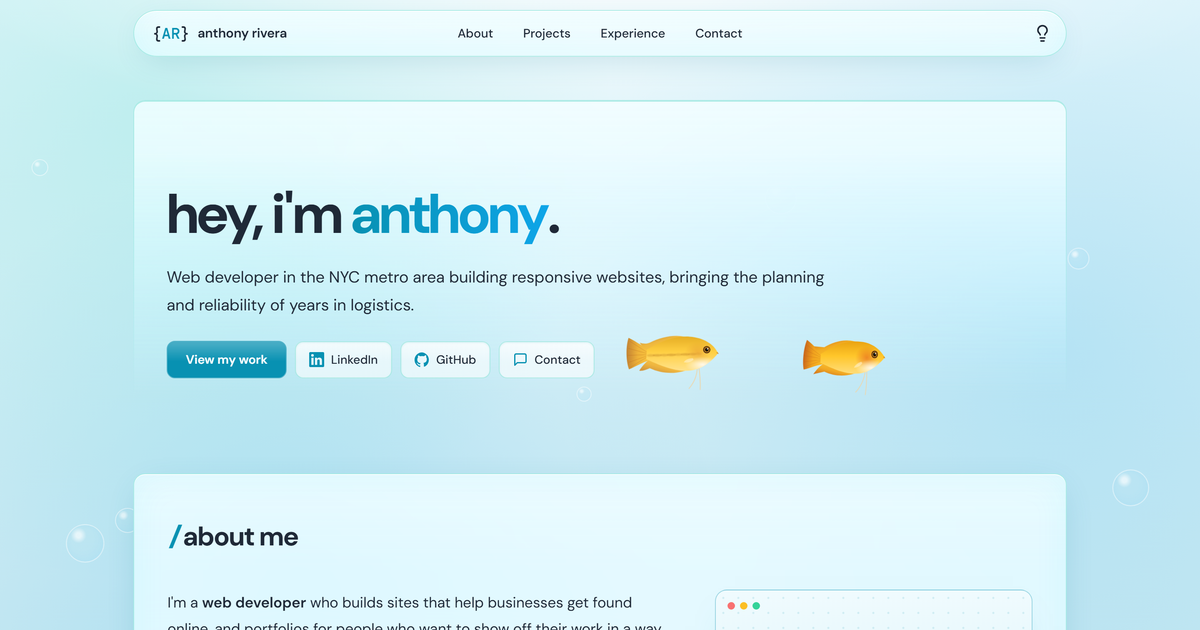
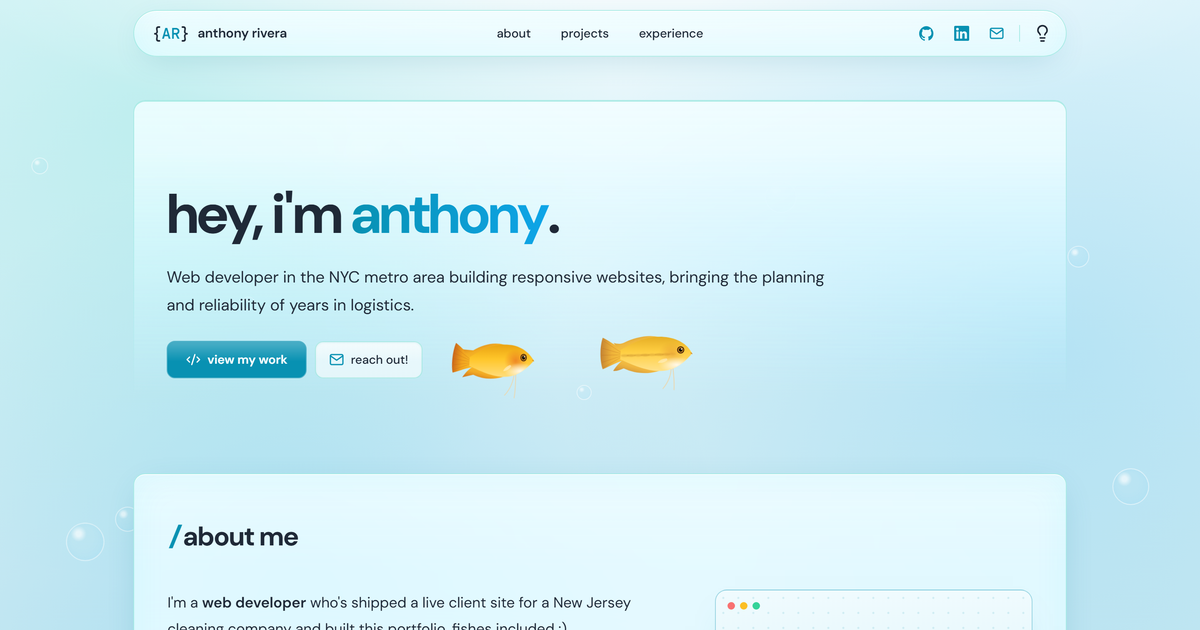
Retarget the site toward developer roles and simplify contact
- Hero and About speak as a web developer: new About intro, the Academy
  Bus paragraph reframed around planning logistics, Claude Code added to
  the tools list, and a code icon on View my work.
- Projects show a "Built with" line; the freelance Experience entry is
  rewritten around the Eros Pro Cleaning build, AI-assisted development
  and Google Analytics, and Assistant Operations Planner gains the
  contracts and scheduling bullet.
- The Contact section is stored in a <template> (kept, not shown). The
  nav gains GitHub, LinkedIn and Email icons, the phone menu lists them
  too, the footer shows the email address, and Resume is a button at
  the end of the Experience timeline.
- Nav links and buttons are lowercase, and the hero buttons form a
  2x2 grid on phones.
- Update the meta description, resume, share image and project
  thumbnail to match.

diff --git a/index.html b/index.html
@@ -4,7 +4,7 @@
   <meta charset="UTF-8" />
   <meta name="viewport" content="width=device-width, initial-scale=1.0" />
   <title>Anthony Daniel Rivera | Web Developer</title>
-  <meta name="description" content="Anthony Daniel Rivera is a web developer in the NYC metro area who builds fast, mobile-friendly websites for businesses and personal portfolios." />
+  <meta name="description" content="Anthony Daniel Rivera is a CS grad and web developer in the NYC metro area, with 3+ years running large-scale transportation operations." />
   <link rel="canonical" href="https://anthonydanrivera.com/" />
 
   <link rel="icon" href="assets/favicon-32.png" sizes="32x32" type="image/png" />
@@ -16,7 +16,7 @@
   <meta property="og:type" content="website" />
   <meta property="og:url" content="https://anthonydanrivera.com/" />
   <meta property="og:title" content="Anthony Daniel Rivera | Web Developer" />
-  <meta property="og:description" content="Anthony Daniel Rivera is a web developer in the NYC metro area who builds fast, mobile-friendly websites for businesses and personal portfolios." />
+  <meta property="og:description" content="Anthony Daniel Rivera is a CS grad and web developer in the NYC metro area, with 3+ years running large-scale transportation operations." />
   <meta property="og:image" content="https://anthonydanrivera.com/assets/og-image.png" />
   <meta property="og:image:width" content="1200" />
   <meta property="og:image:height" content="630" />
@@ -70,13 +70,21 @@
       <a href="#top" class="nav__logo"><span class="nav__mark">{<span>AR</span>}</span><span class="nav__name">anthony rivera</span></a>
 
       <nav class="nav__links" id="navLinks">
-        <a href="#about">About</a>
-        <a href="#projects">Projects</a>
-        <a href="#experience">Experience</a>
-        <a href="#contact">Contact</a>
+        <a href="#about">about</a>
+        <a href="#projects">projects</a>
+        <a href="#experience">experience</a>
+        <!-- Shown only in the phone menu; on wider screens the nav has these as icons instead -->
+        <a class="nav__menu-link" href="https://github.com/anthonydanrivera" target="_blank" rel="noopener"><svg viewBox="0 0 24 24" width="18" height="18" fill="currentColor" aria-hidden="true"><path d="M12 .5a12 12 0 0 0-3.8 23.4c.6.1.8-.3.8-.6v-2c-3.3.7-4-1.6-4-1.6-.6-1.4-1.4-1.8-1.4-1.8-1.1-.7.1-.7.1-.7 1.2.1 1.8 1.2 1.8 1.2 1.1 1.8 2.8 1.3 3.5 1 .1-.8.4-1.3.8-1.6-2.7-.3-5.5-1.3-5.5-5.9 0-1.3.5-2.4 1.2-3.2-.1-.3-.5-1.5.1-3.2 0 0 1-.3 3.3 1.2a11.5 11.5 0 0 1 6 0C17.3 4.6 18.3 5 18.3 5c.7 1.7.2 2.9.1 3.2.8.8 1.2 1.9 1.2 3.2 0 4.6-2.8 5.6-5.5 5.9.4.4.8 1.1.8 2.2v3.3c0 .3.2.7.8.6A12 12 0 0 0 12 .5z"/></svg><span class="nav__menu-label">github</span></a>
+        <a class="nav__menu-link" href="https://www.linkedin.com/in/anthonydanrivera" target="_blank" rel="noopener"><svg viewBox="0 0 24 24" width="18" height="18" fill="currentColor" aria-hidden="true"><path d="M20.4 20.5h-3.6v-5.6c0-1.3 0-3-1.8-3s-2.1 1.4-2.1 2.9v5.7H9.3V9h3.4v1.6h.1c.5-.9 1.6-1.8 3.4-1.8 3.6 0 4.3 2.4 4.3 5.5v6.2zM5.3 7.4a2.1 2.1 0 1 1 0-4.2 2.1 2.1 0 0 1 0 4.2zM7.1 20.5H3.5V9h3.6v11.5zM22.2 0H1.8C.8 0 0 .8 0 1.7v20.6c0 .9.8 1.7 1.8 1.7h20.4c1 0 1.8-.8 1.8-1.7V1.7C24 .8 23.2 0 22.2 0z"/></svg><span class="nav__menu-label">linkedin</span></a>
+        <a class="nav__menu-link" href="mailto:anthonydanrivera@gmail.com"><svg viewBox="0 0 24 24" width="18" height="18" fill="none" stroke="currentColor" stroke-width="2" stroke-linecap="round" stroke-linejoin="round" aria-hidden="true"><rect x="2" y="4" width="20" height="16" rx="2"/><path d="m22 6-10 7L2 6"/></svg><span class="nav__menu-label">email</span></a>
       </nav>
 
       <div class="nav__actions">
+        <!-- Quick links, as icons: GitHub, LinkedIn, Email -->
+        <a class="icon-btn nav__quick" href="https://github.com/anthonydanrivera" target="_blank" rel="noopener" aria-label="GitHub"><svg viewBox="0 0 24 24" width="18" height="18" fill="currentColor" aria-hidden="true"><path d="M12 .5a12 12 0 0 0-3.8 23.4c.6.1.8-.3.8-.6v-2c-3.3.7-4-1.6-4-1.6-.6-1.4-1.4-1.8-1.4-1.8-1.1-.7.1-.7.1-.7 1.2.1 1.8 1.2 1.8 1.2 1.1 1.8 2.8 1.3 3.5 1 .1-.8.4-1.3.8-1.6-2.7-.3-5.5-1.3-5.5-5.9 0-1.3.5-2.4 1.2-3.2-.1-.3-.5-1.5.1-3.2 0 0 1-.3 3.3 1.2a11.5 11.5 0 0 1 6 0C17.3 4.6 18.3 5 18.3 5c.7 1.7.2 2.9.1 3.2.8.8 1.2 1.9 1.2 3.2 0 4.6-2.8 5.6-5.5 5.9.4.4.8 1.1.8 2.2v3.3c0 .3.2.7.8.6A12 12 0 0 0 12 .5z"/></svg></a>
+        <a class="icon-btn nav__quick" href="https://www.linkedin.com/in/anthonydanrivera" target="_blank" rel="noopener" aria-label="LinkedIn"><svg viewBox="0 0 24 24" width="18" height="18" fill="currentColor" aria-hidden="true"><path d="M20.4 20.5h-3.6v-5.6c0-1.3 0-3-1.8-3s-2.1 1.4-2.1 2.9v5.7H9.3V9h3.4v1.6h.1c.5-.9 1.6-1.8 3.4-1.8 3.6 0 4.3 2.4 4.3 5.5v6.2zM5.3 7.4a2.1 2.1 0 1 1 0-4.2 2.1 2.1 0 0 1 0 4.2zM7.1 20.5H3.5V9h3.6v11.5zM22.2 0H1.8C.8 0 0 .8 0 1.7v20.6c0 .9.8 1.7 1.8 1.7h20.4c1 0 1.8-.8 1.8-1.7V1.7C24 .8 23.2 0 22.2 0z"/></svg></a>
+        <a class="icon-btn nav__quick" href="mailto:anthonydanrivera@gmail.com" aria-label="Email"><svg viewBox="0 0 24 24" width="18" height="18" fill="none" stroke="currentColor" stroke-width="2" stroke-linecap="round" stroke-linejoin="round" aria-hidden="true"><rect x="2" y="4" width="20" height="16" rx="2"/><path d="m22 6-10 7L2 6"/></svg></a>
+        <span class="nav__divider" aria-hidden="true"></span>
         <!-- A lightbulb -->
         <button class="icon-btn" id="themeToggle" aria-label="Toggle light and dark mode">
           <svg viewBox="0 0 24 24" width="22" height="22" fill="none" stroke="currentColor" stroke-width="2" stroke-linecap="round" stroke-linejoin="round" aria-hidden="true"><path d="M15 14c.2-1 .7-1.7 1.5-2.5 1-.9 1.5-2.2 1.5-3.5A6 6 0 0 0 6 8c0 1 .2 2.2 1.5 3.5.7.7 1.3 1.5 1.5 2.5"/><path d="M9 18h6"/><path d="M10 22h4"/></svg>
@@ -98,21 +106,12 @@
         Web developer in the NYC metro area building responsive websites,
         bringing the planning and reliability of years in logistics.
       </p>
-      <!-- One row of actions: the main button first, then the links -->
+      <!-- The main button, then a quick way to get in touch -->
       <div class="hero__cta socials reveal">
-        <a href="#projects" class="btn btn--ghost btn--primary">View my work</a>
-        <span class="hero__break" aria-hidden="true"></span>
-        <a class="social-btn" href="https://www.linkedin.com/in/anthonydanrivera" target="_blank" rel="noopener">
-          <svg viewBox="0 0 24 24" width="18" height="18" fill="currentColor" aria-hidden="true"><path d="M20.4 20.5h-3.6v-5.6c0-1.3 0-3-1.8-3s-2.1 1.4-2.1 2.9v5.7H9.3V9h3.4v1.6h.1c.5-.9 1.6-1.8 3.4-1.8 3.6 0 4.3 2.4 4.3 5.5v6.2zM5.3 7.4a2.1 2.1 0 1 1 0-4.2 2.1 2.1 0 0 1 0 4.2zM7.1 20.5H3.5V9h3.6v11.5zM22.2 0H1.8C.8 0 0 .8 0 1.7v20.6c0 .9.8 1.7 1.8 1.7h20.4c1 0 1.8-.8 1.8-1.7V1.7C24 .8 23.2 0 22.2 0z"/></svg>
-          LinkedIn
-        </a>
-        <a class="social-btn" href="https://github.com/anthonydanrivera" target="_blank" rel="noopener">
-          <svg viewBox="0 0 24 24" width="18" height="18" fill="currentColor" aria-hidden="true"><path d="M12 .5a12 12 0 0 0-3.8 23.4c.6.1.8-.3.8-.6v-2c-3.3.7-4-1.6-4-1.6-.6-1.4-1.4-1.8-1.4-1.8-1.1-.7.1-.7.1-.7 1.2.1 1.8 1.2 1.8 1.2 1.1 1.8 2.8 1.3 3.5 1 .1-.8.4-1.3.8-1.6-2.7-.3-5.5-1.3-5.5-5.9 0-1.3.5-2.4 1.2-3.2-.1-.3-.5-1.5.1-3.2 0 0 1-.3 3.3 1.2a11.5 11.5 0 0 1 6 0C17.3 4.6 18.3 5 18.3 5c.7 1.7.2 2.9.1 3.2.8.8 1.2 1.9 1.2 3.2 0 4.6-2.8 5.6-5.5 5.9.4.4.8 1.1.8 2.2v3.3c0 .3.2.7.8.6A12 12 0 0 0 12 .5z"/></svg>
-          GitHub
-        </a>
-        <a class="social-btn" href="#contact">
-          <svg viewBox="0 0 24 24" width="18" height="18" fill="none" stroke="currentColor" stroke-width="2" stroke-linecap="round" stroke-linejoin="round" aria-hidden="true"><path d="M21 15a2 2 0 0 1-2 2H7l-4 4V5a2 2 0 0 1 2-2h14a2 2 0 0 1 2 2z"/></svg>
-          Contact
+        <a href="#projects" class="btn btn--ghost btn--primary"><svg viewBox="0 0 24 24" width="18" height="18" fill="none" stroke="currentColor" stroke-width="2" stroke-linecap="round" stroke-linejoin="round" aria-hidden="true"><path d="m18 16 4-4-4-4"/><path d="m6 8-4 4 4 4"/><path d="m14.5 4-5 16"/></svg><span class="btn__label">view my work</span></a>
+        <a class="social-btn" href="mailto:anthonydanrivera@gmail.com">
+          <svg viewBox="0 0 24 24" width="18" height="18" fill="none" stroke="currentColor" stroke-width="2" stroke-linecap="round" stroke-linejoin="round" aria-hidden="true"><rect x="2" y="4" width="20" height="16" rx="2"/><path d="m22 6-10 7L2 6"/></svg>
+          <span class="btn__label">reach out!</span>
         </a>
       </div>
       <!-- Shown on desktop once the fish is in the margins; fades away after the first feeding -->
@@ -125,31 +124,28 @@
       <div class="about">
         <div class="about__text reveal">
           <p>
-            I'm a <strong>web developer</strong> who builds sites that help businesses get found online, and portfolios
-            for people who want to show off their work in a way that feels like them.
+            I'm a <strong>web developer</strong> who's shipped a live client site for a New Jersey
+            cleaning company and built this portfolio, fishes included :)
           </p>
           <p>What I work with:</p>
           <ul class="tech-list">
             <li>HTML &amp; CSS</li><li>JavaScript</li>
             <li>Web design</li><li>Git &amp; GitHub</li>
-            <li>AI-assisted development</li><li>Python</li>
+            <li>Python</li><li>Claude Code</li>
           </ul>
           <p>
-            Alongside web development I'm an <strong>Assistant Operations Planner</strong> at Academy Bus, coordinating charter
-            work across 10 Northeast terminals for events such as the FIFA World Cup, the US Open and the NYC
-            Marathon.
+            Alongside development I'm an <strong>Assistant Operations Planner</strong> at Academy Bus. I plan logistics and
+            transportation needs across 10 Northeast terminals and for events like the FIFA World Cup, the US Open and the
+            NYC Marathon.
           </p>
           <p>
             Outside of work I love lifting heavy at the gym and getting humbled by Slay the Spire 2.
             I used to keep honey gouramis, which is why you see two swimming here!
           </p>
-          <p>
-            Have a website or a role in mind? <a class="accent" href="#contact">Send me a message</a>.
-          </p>
         </div>
         <div class="about__photo reveal">
           <!-- Replace with: <img src="assets/profile.jpg" alt="Anthony Rivera" /> -->
-          <div class="photo-placeholder">
+          <div class="photo-placeholder" aria-hidden="true">
             {<span>AR</span>}
             <!-- A tiny ASCII aquarium -->
             <div class="tank" aria-hidden="true">
@@ -158,8 +154,8 @@
               <span class="tank__fish tank__fish--tetra">&lt;&gt;&lt;</span>
               <span class="tank__bubble tank__bubble--a">o</span>
               <span class="tank__bubble tank__bubble--b">&deg;</span>
-              <pre class="tank__plants">               (   (         (        )
-(              )   )         )        (    )
+              <pre class="tank__plants">               (   (         (        )                         
+(              )   )         )        (    )                    
 )       )      ( ( (         ( (    ) )    (   ( (             (
 (    )  ( (    ) ) ) )    (  ) )    ( ( (  )   ) ) )     )  (  )
 )    (  ) )    ( ( ( (    )  ( (    ) ) )  (   ( ( (     (  )  (</pre>
@@ -184,6 +180,7 @@
             <h3>Eros Pro Cleaning</h3>
             <p>A site for a New Jersey company that cleans homes and offices. Customers can see what they clean
               and where, then call or ask for a quote with one tap.</p>
+            <p class="card__stack"><span>Built with</span> HTML · CSS · JavaScript</p>
             <ul class="tags"><li>Client Work</li><li>Web Design</li><li>Responsive</li><li>Dark Mode</li></ul>
             <div class="card__links">
               <a href="https://erosprocleaning.com/" target="_blank" rel="noopener">Visit site <svg viewBox="0 0 24 24" fill="none" stroke="currentColor" stroke-width="2.2" stroke-linecap="round" stroke-linejoin="round" aria-hidden="true"><path d="M7 17 17 7M8 7h9v9"/></svg></a>
@@ -200,12 +197,14 @@
             <h3>This Portfolio</h3>
             <p>The site you're on right now. It has light and dark modes, an ASCII fish tank and two honey
               gouramis you can feed by clicking the margins.</p>
+            <p class="card__stack"><span>Built with</span> HTML · CSS · JavaScript</p>
             <ul class="tags"><li>Personal Site</li><li>Interactive</li><li>Dark Mode</li></ul>
             <div class="card__links">
               <a href="#top">You're already here! <svg viewBox="0 0 24 24" fill="none" stroke="currentColor" stroke-width="2.2" stroke-linecap="round" stroke-linejoin="round" aria-hidden="true"><path d="M12 19V5M5 12l7-7 7 7"/></svg></a>
             </div>
           </div>
         </article>
+
       </div>
     </section>
 
@@ -217,9 +216,9 @@
           <span class="timeline__date">Oct 2026 — Present · Remote</span>
           <h3>Freelance Web Developer · <span class="accent">Self-employed</span></h3>
           <ul class="timeline__points">
-            <li>Build and launch responsive websites for clients, handling the design, the build and getting each site live.</li>
-            <li>Work one-on-one from first draft to launch, revising each site around feedback.</li>
-            <li>Use Claude Code to build and debug sites faster.</li>
+            <li>Designed, built and deployed <a class="accent" href="https://erosprocleaning.com/" target="_blank" rel="noopener">erosprocleaning.com</a> for a NJ cleaning company using HTML, CSS and JavaScript, hosted on Netlify.</li>
+            <li>Use AI-assisted development (Claude Code) to build and debug faster, reviewing and testing every change.</li>
+            <li>Set up Google Analytics to track traffic and quote/call conversions, giving the client visibility into how customers find and use the site.</li>
           </ul>
         </li>
         <li class="timeline__item reveal">
@@ -227,6 +226,7 @@
           <h3>Assistant Operations Planner · <span class="accent">Academy Bus</span></h3>
           <ul class="timeline__points">
             <li>Forecast charter demand across a peak-season board of 3,000+ trips a month and distribute work across 10 Northeast terminals including MA, NY, NJ and CT.</li>
+            <li>Analyze contracts and schedules to resource daily service for 100+ buses and drivers within DOT hours-of-service limits.</li>
             <li>Coordinate terminal distribution and subcontracting for the FIFA World Cup, US Open and TCS NYC Marathon.</li>
           </ul>
         </li>
@@ -237,6 +237,10 @@
             <li>Led the 24/7 dispatch desk, directed a team of 3 and trained new hires.</li>
             <li>Resolved 15+ service disruptions a week, coordinating crews and equipment by radio.</li>
           </ul>
+        </li>
+        <!-- The last stop on the timeline: the full resume -->
+        <li class="timeline__item timeline__item--resume reveal">
+          <a class="btn btn--ghost" href="assets/resume.pdf" target="_blank" rel="noopener"><svg viewBox="0 0 24 24" width="18" height="18" fill="none" stroke="currentColor" stroke-width="2" stroke-linecap="round" stroke-linejoin="round" aria-hidden="true"><path d="M14 2H6a2 2 0 0 0-2 2v16a2 2 0 0 0 2 2h12a2 2 0 0 0 2-2V8z"/><path d="M14 2v6h6"/><path d="M16 13H8M16 17H8M10 9H8"/></svg><span class="btn__label">resume</span></a>
         </li>
       </ol>
 
@@ -253,14 +257,18 @@
       </ol>
     </section>
 
-    <!-- ============ CONTACT ============ -->
+    <!-- ============ CONTACT (stored, not shown) ============ -->
+    <!-- The Contact section is kept here inside a <template>, which browsers never display. To bring it back:
+         move the <section> out of the <template>, re-add <a href="#contact">Contact</a> to the nav, and point the
+         hero Email button and the About "Send me an email" link back at #contact if you like. -->
+    <template id="contact-section">
     <section class="section container contact" id="contact">
       <h2 class="section__title reveal">Contact</h2>
       <p class="contact__lead reveal">
-        Need a new website or a refresh of the one you have? Hiring for a role I'd be a good fit for?
-        Email me at <a class="accent" href="mailto:anthonydanrivera@gmail.com">anthonydanrivera@gmail.com</a>
+        Hiring, or want to connect? Email me at <a class="accent" href="mailto:anthonydanrivera@gmail.com">anthonydanrivera@gmail.com</a>
         or use the form below.
       </p>
+      <p class="contact__aside reveal">Need a website built? I take on freelance projects too.</p>
       <div class="socials contact__socials reveal">
         <a class="social-btn" href="https://www.linkedin.com/in/anthonydanrivera" target="_blank" rel="noopener">
           <svg viewBox="0 0 24 24" width="18" height="18" fill="currentColor" aria-hidden="true"><path d="M20.4 20.5h-3.6v-5.6c0-1.3 0-3-1.8-3s-2.1 1.4-2.1 2.9v5.7H9.3V9h3.4v1.6h.1c.5-.9 1.6-1.8 3.4-1.8 3.6 0 4.3 2.4 4.3 5.5v6.2zM5.3 7.4a2.1 2.1 0 1 1 0-4.2 2.1 2.1 0 0 1 0 4.2zM7.1 20.5H3.5V9h3.6v11.5zM22.2 0H1.8C.8 0 0 .8 0 1.7v20.6c0 .9.8 1.7 1.8 1.7h20.4c1 0 1.8-.8 1.8-1.7V1.7C24 .8 23.2 0 22.2 0z"/></svg>
@@ -294,9 +302,9 @@
           <label for="topic">What can I help with? <span class="field__optional">(optional)</span></label>
           <select id="topic" name="topic">
             <option value="">Choose one</option>
+            <option>Job opportunity</option>
             <option>New website or redesign</option>
             <option>Portfolio website</option>
-            <option>Job opportunity</option>
             <option>Just want to connect</option>
             <option>Something else</option>
           </select>
@@ -313,11 +321,12 @@
         <p class="form-note" id="formNote" role="status"></p>
       </form>
     </section>
+    </template>
   </main>
 
   <footer class="footer">
     <div class="container footer__inner">
-      <p>© <span id="year"></span> Anthony Daniel Rivera</p>
+      <p>© <span id="year"></span> Anthony Daniel Rivera · <a class="accent" href="mailto:anthonydanrivera@gmail.com">anthonydanrivera@gmail.com</a></p>
       <a href="#top" class="mono">Back to top ↑</a>
     </div>
   </footer>

diff --git a/css/style.css b/css/style.css
@@ -187,7 +187,13 @@ img { max-width: 100%; display: block; }
   color: var(--text);
 }
 .nav__links a.is-active { color: var(--accent); }
-.nav__actions { grid-column: 3; justify-self: end; display: flex; gap: 8px; }
+/* GitHub, LinkedIn and Email rows only appear in the phone menu */
+.nav__menu-link { display: none; }
+.nav__actions { grid-column: 3; justify-self: end; display: flex; align-items: center; gap: 4px; }
+/* The quick-link icons are aqua, matching the icons in the phone menu */
+.icon-btn.nav__quick { color: var(--accent); }
+/* A thin line between the quick links and the theme toggle */
+.nav__divider { width: 1px; height: 20px; margin: 0 4px; background: var(--glass-border); }
 
 .icon-btn {
   width: 38px; height: 38px;
@@ -254,16 +260,16 @@ img { max-width: 100%; display: block; }
 @keyframes blink { 50% { opacity: 0; } }
 .hero__lead { max-width: 820px; text-wrap: pretty; margin-top: 22px; color: var(--text); font-size: 1.2rem; line-height: 1.75; }
 .hero__cta { display: flex; flex-wrap: wrap; align-items: center; gap: 12px; margin: 34px 0 30px; }
-/* On phones the row is too narrow for everything, so View my work gets its own line and the links stay together */
-.hero__break { display: none; }
-@media (max-width: 560px) {
-  .hero__break { display: block; flex-basis: 100%; height: 0; }
+/* On phones and small windows the two actions split the row evenly */
+@media (max-width: 640px) {
+  .hero .hero__cta { display: grid; grid-template-columns: 1fr 1fr; }
+  .hero .hero__cta > a { justify-content: center; }
 }
 /* The fish swim in front of the hero's glass but behind its buttons, so they never cover one */
 .hero__cta, .hero .socials { position: relative; z-index: 2; }
 
 .btn {
-  display: inline-flex; align-items: center; justify-content: center;
+  display: inline-flex; align-items: center; justify-content: center; gap: 8px;
   padding: 12px 22px;
   border-radius: 10px;
   font: 600 0.92rem var(--font);
@@ -430,6 +436,13 @@ img { max-width: 100%; display: block; }
 
 
 /* ============ TIMELINE ============ */
+/* The resume button is the last stop on the Experience timeline: its fish sits level with the button,
+   and no bubble line trails after it */
+.timeline__item.timeline__item--resume::before { top: 9px; }
+.timeline__item.timeline__item--resume::after { display: none; }
+.timeline__item--resume .btn { gap: 8px; }
+.timeline__item--resume .btn svg { color: var(--accent); transition: color 0.2s; }
+.timeline__item--resume .btn:hover svg { color: currentColor; }
 /* A column of tiny bubbles down the left side, with a little ASCII fish marking each entry.
    Each entry draws its own stretch of bubbles starting just below its fish, so the line never runs through one */
 .timeline { padding-left: 30px; }
@@ -513,7 +526,11 @@ img { max-width: 100%; display: block; }
   background: color-mix(in srgb, var(--accent) 12%, transparent);
   color: var(--accent);
 }
-.card__links { display: flex; gap: 18px; font-size: 0.9rem; font-weight: 500; }
+/* The tech a project is built with, in the same mono type as the labels */
+.card__stack { margin-top: 12px; font: 0.8rem/1.6 var(--mono); color: var(--text); }
+.card__stack span { color: var(--accent); margin-right: 4px; }
+.card__stack + .card__links { margin-top: 16px; }
+.card__links { display: flex; flex-wrap: wrap; align-items: center; gap: 8px 18px; font-size: 0.9rem; font-weight: 500; }
 .card__links a { color: var(--text); transition: color 0.2s; }
 /* Arrows are drawn as icons rather than text characters, which come from different fallback fonts and don't match */
 .card__links svg { width: 0.9em; height: 0.9em; margin-left: 2px; vertical-align: -0.08em; }
@@ -522,6 +539,9 @@ img { max-width: 100%; display: block; }
 /* ============ CONTACT ============ */
 .contact { margin-bottom: 80px; }
 .contact__lead { color: var(--text); max-width: 580px; margin-bottom: 28px; font-size: 1.1rem; line-height: 1.8; }
+/* A quieter second line for freelance inquiries, tucked under the main prompt */
+.contact__lead:has(+ .contact__aside) { margin-bottom: 6px; }
+.contact__aside { color: var(--muted); max-width: 580px; margin-bottom: 28px; font-size: 0.98rem; }
 .contact__form { display: grid; grid-template-columns: 1fr 1fr; gap: 16px; max-width: 640px; }
 .field { display: flex; flex-direction: column; gap: 6px; }
 .field--full { grid-column: 1 / -1; }
@@ -605,6 +625,8 @@ img { max-width: 100%; display: block; }
   /* The links move into the drop-down menu, so the bar goes back to just logo on the left, buttons on the right */
   .nav__inner { display: flex; justify-content: space-between; }
   .nav__burger { display: flex; }
+  /* No room for the quick-link icons here; GitHub, LinkedIn and Email move into the menu instead */
+  .nav__quick, .nav__divider { display: none; }
   .nav__links {
     position: fixed; top: 76px; left: 16px; right: 16px;
     flex-direction: column; gap: 0;
@@ -619,10 +641,12 @@ img { max-width: 100%; display: block; }
     visibility: hidden;
     transition: max-height 0.3s ease, visibility 0s 0.3s;
   }
-  .nav__links.is-open { max-height: 320px; border-color: var(--border); visibility: visible; transition: max-height 0.3s ease; }
+  .nav__links.is-open { max-height: 420px; border-color: var(--border); visibility: visible; transition: max-height 0.3s ease; }
   /* In the drop-down menu the links are plain rows rather than glass pills */
   .nav__links a { padding: 16px 20px; border-radius: 0; border-top: 1px solid var(--border); }
   .nav__links a:first-child { border-top: none; }
+  .nav__links .nav__menu-link { display: flex; align-items: center; gap: 10px; }
+  .nav__menu-link svg { width: 18px; height: 18px; color: var(--accent); flex-shrink: 0; }
 
   .about { grid-template-columns: 1fr; }
   .about__photo { width: 100%; max-width: 220px; margin: 0 auto; grid-row: 1; }

diff --git a/js/main.js b/js/main.js
@@ -76,6 +76,7 @@ document.querySelectorAll(".reveal").forEach((el, i) => {
 // Submits to Netlify Forms. The hidden "bot-field" is a honeypot: people never see it,
 // so if it has a value the sender is a bot and the message is dropped.
 // If the submission fails (e.g. viewing the site locally), fall back to the visitor's email app.
+// The Contact section is stored in a <template> for now, so there's no form and this does nothing until it's restored.
 const form = document.getElementById("contactForm");
 const formNote = document.getElementById("formNote");
 const YOUR_EMAIL = "anthonydanrivera@gmail.com";
@@ -88,7 +89,7 @@ const openEmailApp = (data) => {
   formNote.textContent = "Opening your email app…";
 };
 
-form.addEventListener("submit", async (e) => {
+form?.addEventListener("submit", async (e) => {
   e.preventDefault();
   const data = new FormData(form);
 
